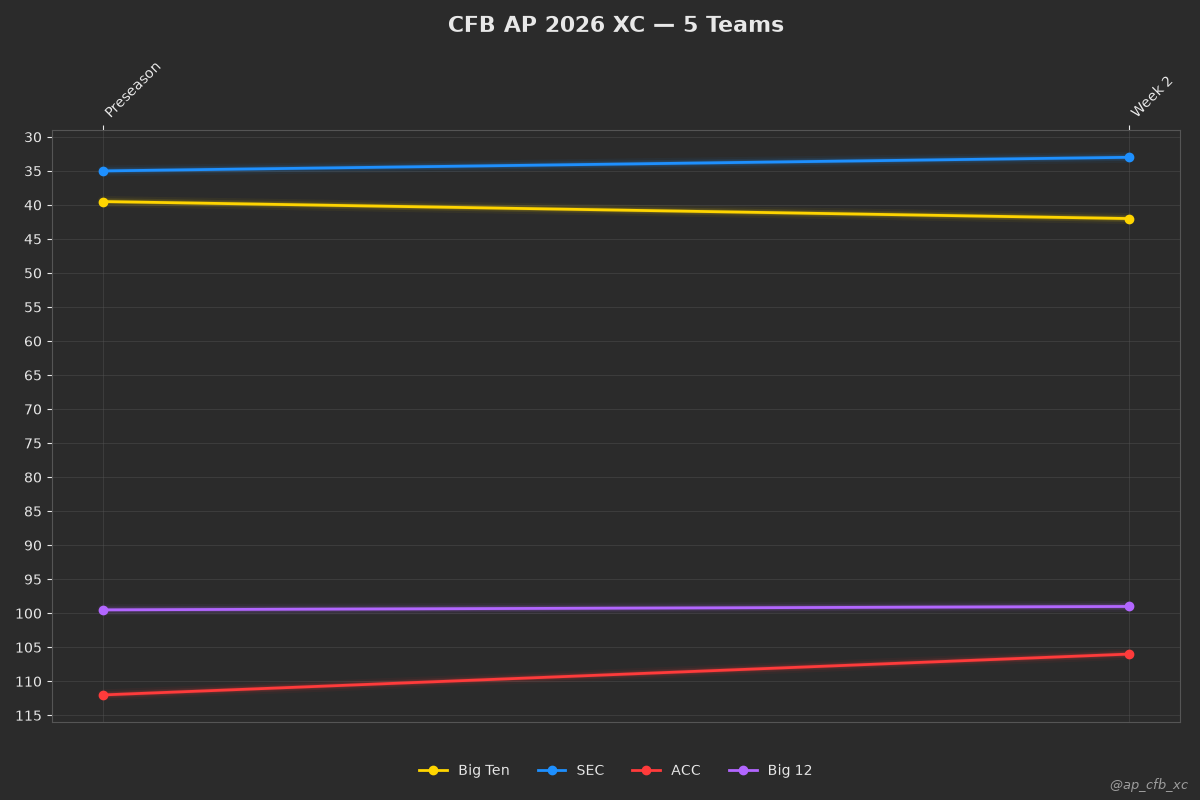
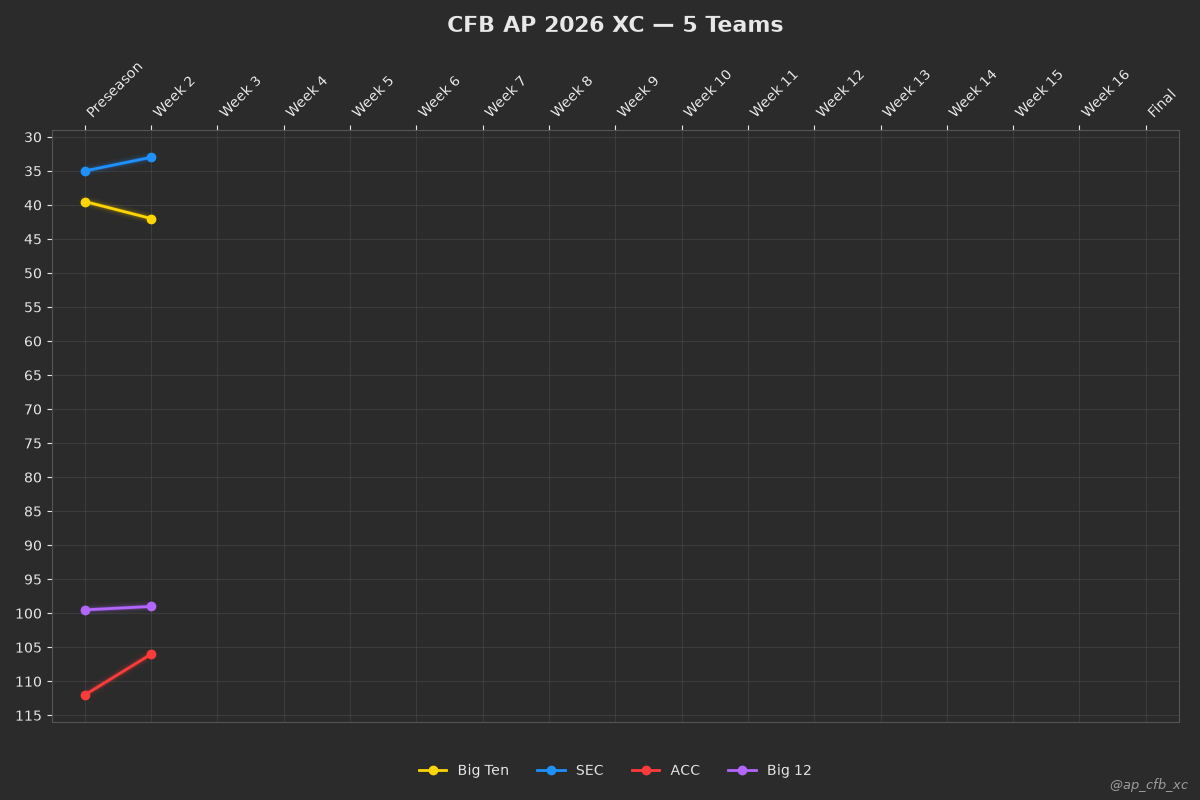
Expand weekly graphs to show all weeks in the season

diff --git a/graph_data.py b/graph_data.py
@@ -56,16 +56,28 @@ def _color_for_conference(name, fallback_cycle):
 
 
 def generate_graph(
-    summary_stats_df, title: str = "Weekly Results", show: bool = True
+    summary_stats_df,
+    title: str = "Weekly Results",
+    show: bool = True,
+    drop_empty_weeks: bool = True,
 ) -> plt.plot:
-    """ """
+    """
+    :param drop_empty_weeks: if True (default), weeks/rows with no data at all across every
+        conference are dropped before plotting - appropriate for the cross-season Final-rankings
+        chart, where an in-progress season shouldn't appear as an empty x-axis category. Pass False
+        to keep every not-yet-reached week visible as a blank stretch of x-axis instead (used for the
+        current season's weekly chart, so the plot visually shows how far into the season we are).
+    """
     # Set Week column as index
     summary_stats_df.set_index("Week", inplace=True)
     # Drop the unused "Week 16" placeholder for seasons that only ran 15 weeks (Issue #22)
     summary_stats_df = sd.suppress_unused_week_16(summary_stats_df)
 
-    # Drop rows and columns with all NaN values
-    df_cleaned = summary_stats_df.dropna(axis=0, how="all").dropna(axis=1, how="all")
+    # Drop columns (conferences) with no data all season; optionally also drop empty week rows
+    df_cleaned = summary_stats_df
+    if drop_empty_weeks:
+        df_cleaned = df_cleaned.dropna(axis=0, how="all")
+    df_cleaned = df_cleaned.dropna(axis=1, how="all")
 
     fig, ax = plt.subplots(figsize=(12, 8))
     fig.patch.set_facecolor(BACKGROUND_COLOR)
@@ -76,6 +88,10 @@ def generate_graph(
     for column in df_cleaned.columns:
         color = _color_for_conference(column, fallback_cycle)
         _glow_plot(ax, df_cleaned.index, df_cleaned[column], color, column)
+
+    # Force the full category range into view - matplotlib's autoscale only considers the finite
+    # (non-NaN) data range, which would otherwise crop out any not-yet-reached, still-blank weeks
+    ax.set_xlim(-0.5, len(df_cleaned.index) - 0.5)
 
     # Customize the plot
     ax.set_title(title, color=TEXT_COLOR, fontsize=16, fontweight="bold", pad=20)
@@ -195,7 +211,8 @@ def graph_year(year: int, num_scoring_teams: int = 5, show: bool = True) -> plt.
     df.rename(columns={idx_header: "Week"}, inplace=True)
 
     title = f"CFB AP {year} XC — {num_scoring_teams} Teams"
-    return generate_graph(df, title=title, show=show)
+    # Keep every not-yet-reached week visible (blank) so the chart shows how far into the season we are
+    return generate_graph(df, title=title, show=show, drop_empty_weeks=False)
 
 
 def graph_final_rankings_by_year(
